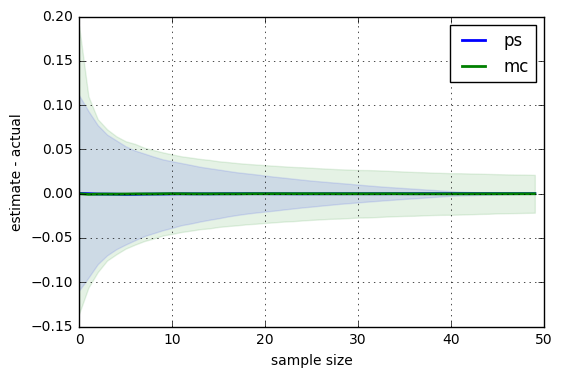
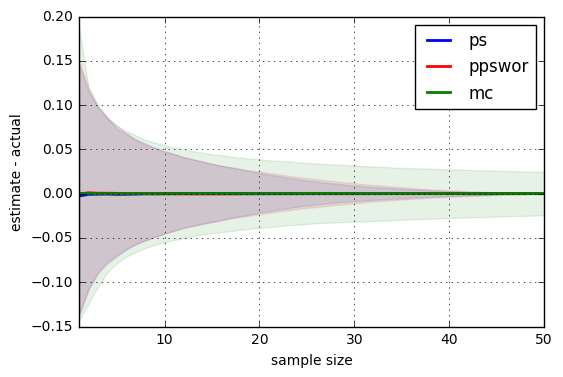
close to done on priority sampling post.

diff --git a/content/sampling-without-replacement.md b/content/sampling-without-replacement.md
@@ -1,5 +1,5 @@
-title: Sampling from a finite universe
-date: 2017-06-30
+title: Estimating means in a finite universe
+date: 2017-07-03
 comments: true
 status: draft
 tags: sampling, statistics, reservoir-sampling
@@ -31,6 +31,11 @@ tags: sampling, statistics, reservoir-sampling
 function toggle(x) { $(x).toggle(); }
 </script>
 
+**Introduction**: In this post, I'm going to describe some efficient approaches
+to estimating the mean of a random variable that can only take on finitely many
+values. Despite the ubiquity of Monte Carlo estimation, it is really inefficient
+for finite domains. I'll describe some lesser-known algorithms based on sampling
+without replacement that can be adapted to estimating means.
 
 **Setup**: Suppose we want to estimate an expectation of a derministic function
 $f$ over a (large) finite universe of $n$ elements where each element $i$ has
@@ -80,9 +85,9 @@ Remarks
 the same elements multiple times by sampling $m$ distinct elements. This is
 called a sampling *without replacement* (SWOR) scheme. Note that there is no
 unique sampling without replacement scheme; although, there does seem to be a
-*de facto* method (PPSWOR; which we won't be using in this post!). There are
-lots of ways to do sample without replacement, e.g., any point process over the
-universe will do as long as we can control the size.
+*de facto* method (more on that later). There are lots of ways to do sample
+without replacement, e.g., any point process over the universe will do as long
+as we can control the size.
 
 **An alternative formulation:** We can also formulate our estimation problem as
 seeking a sparse, unbiased approximation to a vector $\boldsymbol{x}$. We want
@@ -103,29 +108,63 @@ vector can lead to more efficient computations).
 
 **Priority sampling**: Priority sampling (Duffield et al., 2005;
 [Duffield et al., 2007](http://nickduffield.net/download/papers/priority.pdf))
-is a remarkably simple algorithm, which is essentially optimal for our task if
-we assume no knowledge of $f$. Here is pseudocode for priority sampling (PS),
-based on the alternative formulation.
+is a remarkably simple algorithm, which is essentially optimal for our task, if
+we assume no prior knowledge about $f$. Here is pseudocode for priority sampling
+(PS), based on the alternative formulation.
 
 $$
 \begin{align*}
 &\textbf{inputs: } \text{vector } \boldsymbol{x} \in \mathbb{R}^n, \text{budget } m \in \{1, \ldots, n\}\\
 &u_i, \ldots, u_n \overset{\tiny\text{i.i.d.}} \sim \textrm{Uniform}(0,1] \\
-& k_i \leftarrow x_i/u_i \text{ for each $i$} \quad\color{grey}{\text{# random sort key }} \\
-&S \leftarrow \{ \text{top-$m$ elements according to $k_i$} \} \\
-&\tau \leftarrow (m+1)^{\text{th}}\text{ largest }k_i \\
+& k_i \leftarrow u_i/x_i \text{ for each $i$} \quad\color{grey}{\text{# random sort key }} \\
+&S \leftarrow \{ \text{$m$-smallest elements according to $k_i$} \} \\
+&\tau \leftarrow (m+1)^{\text{th}}\text{ smallest }k_i \\
 & s_i = \begin{cases}
-  \max\left( x_i, \tau \right)  & \text{ if } i \in S \\
-  0                             & \text{ otherwise}
+  \max\left( x_i, 1/\tau \right)  & \text{ if } i \in S \\
+  0                               & \text{ otherwise}
 \end{cases} \\
 &\textbf{return }\boldsymbol{s}
 \end{align*}
 $$
 
-For estimating $\mu$, use the following in place of the last line:
+For estimating $\mu$, use the following:
 $$
-\widehat{\mu}_{\text{PS}} = \sum_{i \in S} \max\left( x_i, \tau \right) \cdot f(i)
+\widehat{\mu}_{\text{PS}} = \sum_{i \in S} s_i \!\cdot\! f(i)
 $$
+
+The definition of $s_i$ might look a little mysterious. In the $(i \in S)$ case,
+it comes from $s_i = \frac{p_i}{p(i \in S | \tau)} = \frac{p_i}{\min(1, x_i
+\cdot \tau)} = \max(x_i,\ 1/\tau)$. The factor $p(i \in S | \tau)$ is an
+importance-weighting correction that comes from the Horvitz-Thompson estimator
+(modified slightly from its usual presentation to accomodate estimating means),
+$\sum_{i=1}^n \frac{p_i}{q_i} \cdot f(i) \cdot \boldsymbol{1}[ i \in S]$, where
+$S$ is sampled according to some process with inclusion probabilities $q_i = p(i
+\in S)$. In the case of priority sampling, we have an auxiliary variable for
+$\tau$ that makes computing $q_i$ easy. Thus, for priority sampling, we can use
+$q_i = p(i \in S | \tau)$. This auxillary variable adds a tiny bit extra noise
+in our estimator, which is tantamount to one extra sample.
+
+<button class="toggle-button" onclick="toggle('#ps-unbiased');">Proof of unbiasedness</button>
+<div id="ps-unbiased" class="derivation" style="display:none;">
+**Proof of unbiasedness**. The following proof is a little different from that
+in the priority sampling papers. I think it's more more straightforward. More
+importantly, it shows how we can extend the method to sample from slightly
+different distributions without replacement distributions.
+
+$$
+\begin{eqnarray}
+\mathbb{E}\left[ \widehat{\mu}_{\text{PS}} \right]
+&=& \mathbb{E}_{\tau, u_1, \ldots u_n}\! \left[ \sum_{i=1}^n \frac{p_i}{q_i} \cdot f(i) \cdot \boldsymbol{1}[ i \in S] \right] \\
+&=& \mathbb{E}_{\tau}\! \left[ \sum_{i=1}^n \mathbb{E}_{u_i | \tau}\!\left[ \frac{p_i}{q_i} \cdot f(i) \cdot \boldsymbol{1}[ i \in S] \right] \right] \\
+&=& \mathbb{E}_{\tau}\! \left[ \sum_{i=1}^n \frac{p_i}{q_i} \cdot f(i) \cdot \mathbb{E}_{u_i | \tau}\!\Big[ \boldsymbol{1}[ i \in S] \Big] \right] \\
+&=& \mathbb{E}_{\tau}\! \left[ \sum_{i=1}^n \frac{p_i}{q_i} \cdot f(i) \cdot q_i \right] \\
+&=& \mathbb{E}_{\tau}\! \left[ \sum_{i=1}^n p_i \cdot f(i) \right] \\
+&=& \sum_{i=1}^n p_i \cdot f(i) \\
+&=& \mu
+\end{eqnarray}
+$$
+</div>
+
 
 **Properties**:
 
@@ -137,18 +176,18 @@ $$
    can be stopped at any time, in principle.
 
  - Priority sampling was designed for estimating subset sums, i.e., estimating
-   $\sum_{i \in I} x_i$ for any $I \subseteq \{1,\ldots,n\}$. In this setting,
-   the set of sampled items $S$ is chosen to be representative of the
-   population, albeit much smaller. Under these conditions, priority sampling
+   $\sum_{i \in I} x_i$ for some $I \subseteq \{1,\ldots,n\}$. In this setting,
+   the set of sampled items $S$ is chosen to be "representative" of the
+   population, albeit much smaller. In the subset sum setting, priority sampling
    has been show to have near-optimal variance
    [(Szegedy, 2005)](https://www.cs.rutgers.edu/~szegedy/PUBLICATIONS/full1.pdf).
    Specifically, priority sampling with $m$ samples is no worse than the best
    possible $(m-1)$-sparse estimator in terms of variance. Of course, when
    estimating $\mu$ some knowledge about $f$, we can obviously be used to beat
-   PS. We can relate subset sums to estimating $\mu$ by interpreting
+   PS. <!-- We can relate subset sums to estimating $\mu$ by interpreting
    $\boldsymbol{x} = \alpha\!\cdot\! \boldsymbol{p}$ for some $\alpha$, scaling
    $f$ appropriately by $\alpha$, and encoding the subset via indicators in
-   $f$'s dimensions.
+   $f$'s dimensions. -->
    <!-- (e.g.,. via
    [importance sampling](http://timvieira.github.io/blog/post/2016/05/28/the-optimal-proposal-distribution-is-not-p/)
    or by modifying PS to sample proportional to $x_i = p_i \!\cdot\! |f_i|$ (as
@@ -159,6 +198,23 @@ $$
    $\textrm{Cov}[s_i, s_j] = 0$ for $i \ne j$ and $m \ge 2$. This is surprising
    since $s_i$ and $s_j$ are related via the threshold $\tau$, but these effects
    seem to cancel each other out.
+
+ - If we instead sample $u_1, \ldots, u_n \overset{\text{i.i.d.}}{\sim}
+   -\textrm{Exponential}(1)$, then $S$ will be sampled according to the canonical
+   sampling without replacement scheme (i.e., ``numpy.random.sample(..., replace=False)``), known as probability proportional to
+   size without replacement distribution (PPSWOR). To we can then adjust our estimator
+   $$
+   \widehat{\mu}_{\text{PPSWOR}} = \sum_{i \in S} \frac{p_i}{q_i} f(i)
+   $$
+   where $q_i = p(i \in S|\tau) = p(k_i > \tau) = 1-\exp(-x_i \!\cdot\!
+   \tau)$. This estimator performs about as well as priority sampling. It
+   inherits my proof of unbiasedness (above).
+
+ - $\tau$ is an auxiliary variable that is introduced to break complex
+   dependencies between keys. Computing $\tau$'s distribution is complicated
+   because it is an order statistic of non-identically distributed random
+   variates; this means we can't rely on symmetry to make summing over
+   permutations efficient.
 
 
 ## Experiments

diff --git a/content/gumbel-advanced.md b/content/gumbel-advanced.md
@@ -54,7 +54,7 @@ reservior sampling
 
 $a = -\infty; b = \text{null}$
 for $i=1,2,\cdots;$ do:
-:  \# Additively perturb each weight by a Gumbel random variate,
+:  \# compute randomized key
 :  $u_i \sim \text{Uniform}(0,1)$
 :  $e_i = u_i^{(\frac{1}{x_i})}$
 :  \# Keep around the largest $e_i$
@@ -62,7 +62,19 @@ for $i=1,2,\cdots;$ do:
 :  $\ \ \ \ a = k_i$
 :  $\ \ \ \ b = i$
 
-Again, if interrupt this algorithm at any point, we have our sample $b$.
+Again, if interrupt this algorithm at any point, we have our sample $b$. Note
+that you can simplify $e_i$ so that you don't have to compute pow (which is nice
+because pow is pretty slow). It's equivalent to use $e'_i = \log(e_i) =
+\log(u_i)/x_i$ because $\log$ is monotonic. (Note that $-e'_i \sim
+\textrm{Exponential}(x_i)$.)
+
+<!--
+I find this version of the algorithm more intuitive, since it's well-known that
+$\left(\underset{{i=1 \ldots t}}{\min} \textrm{Exponential}(x_i) \right) =
+\textrm{Exponential}\left(\sum_{i=1}^t x_i \right)$. This version makes it clear
+that minimizing is actually summing. However, we want the argmin, which is
+distributed according to $\pi_t$.
+-->
 
 **Relationship**: Let's try to relate these algorithms. At a high level, both
 algorithms compute a randomized key and take an argmax. What's the relationship
